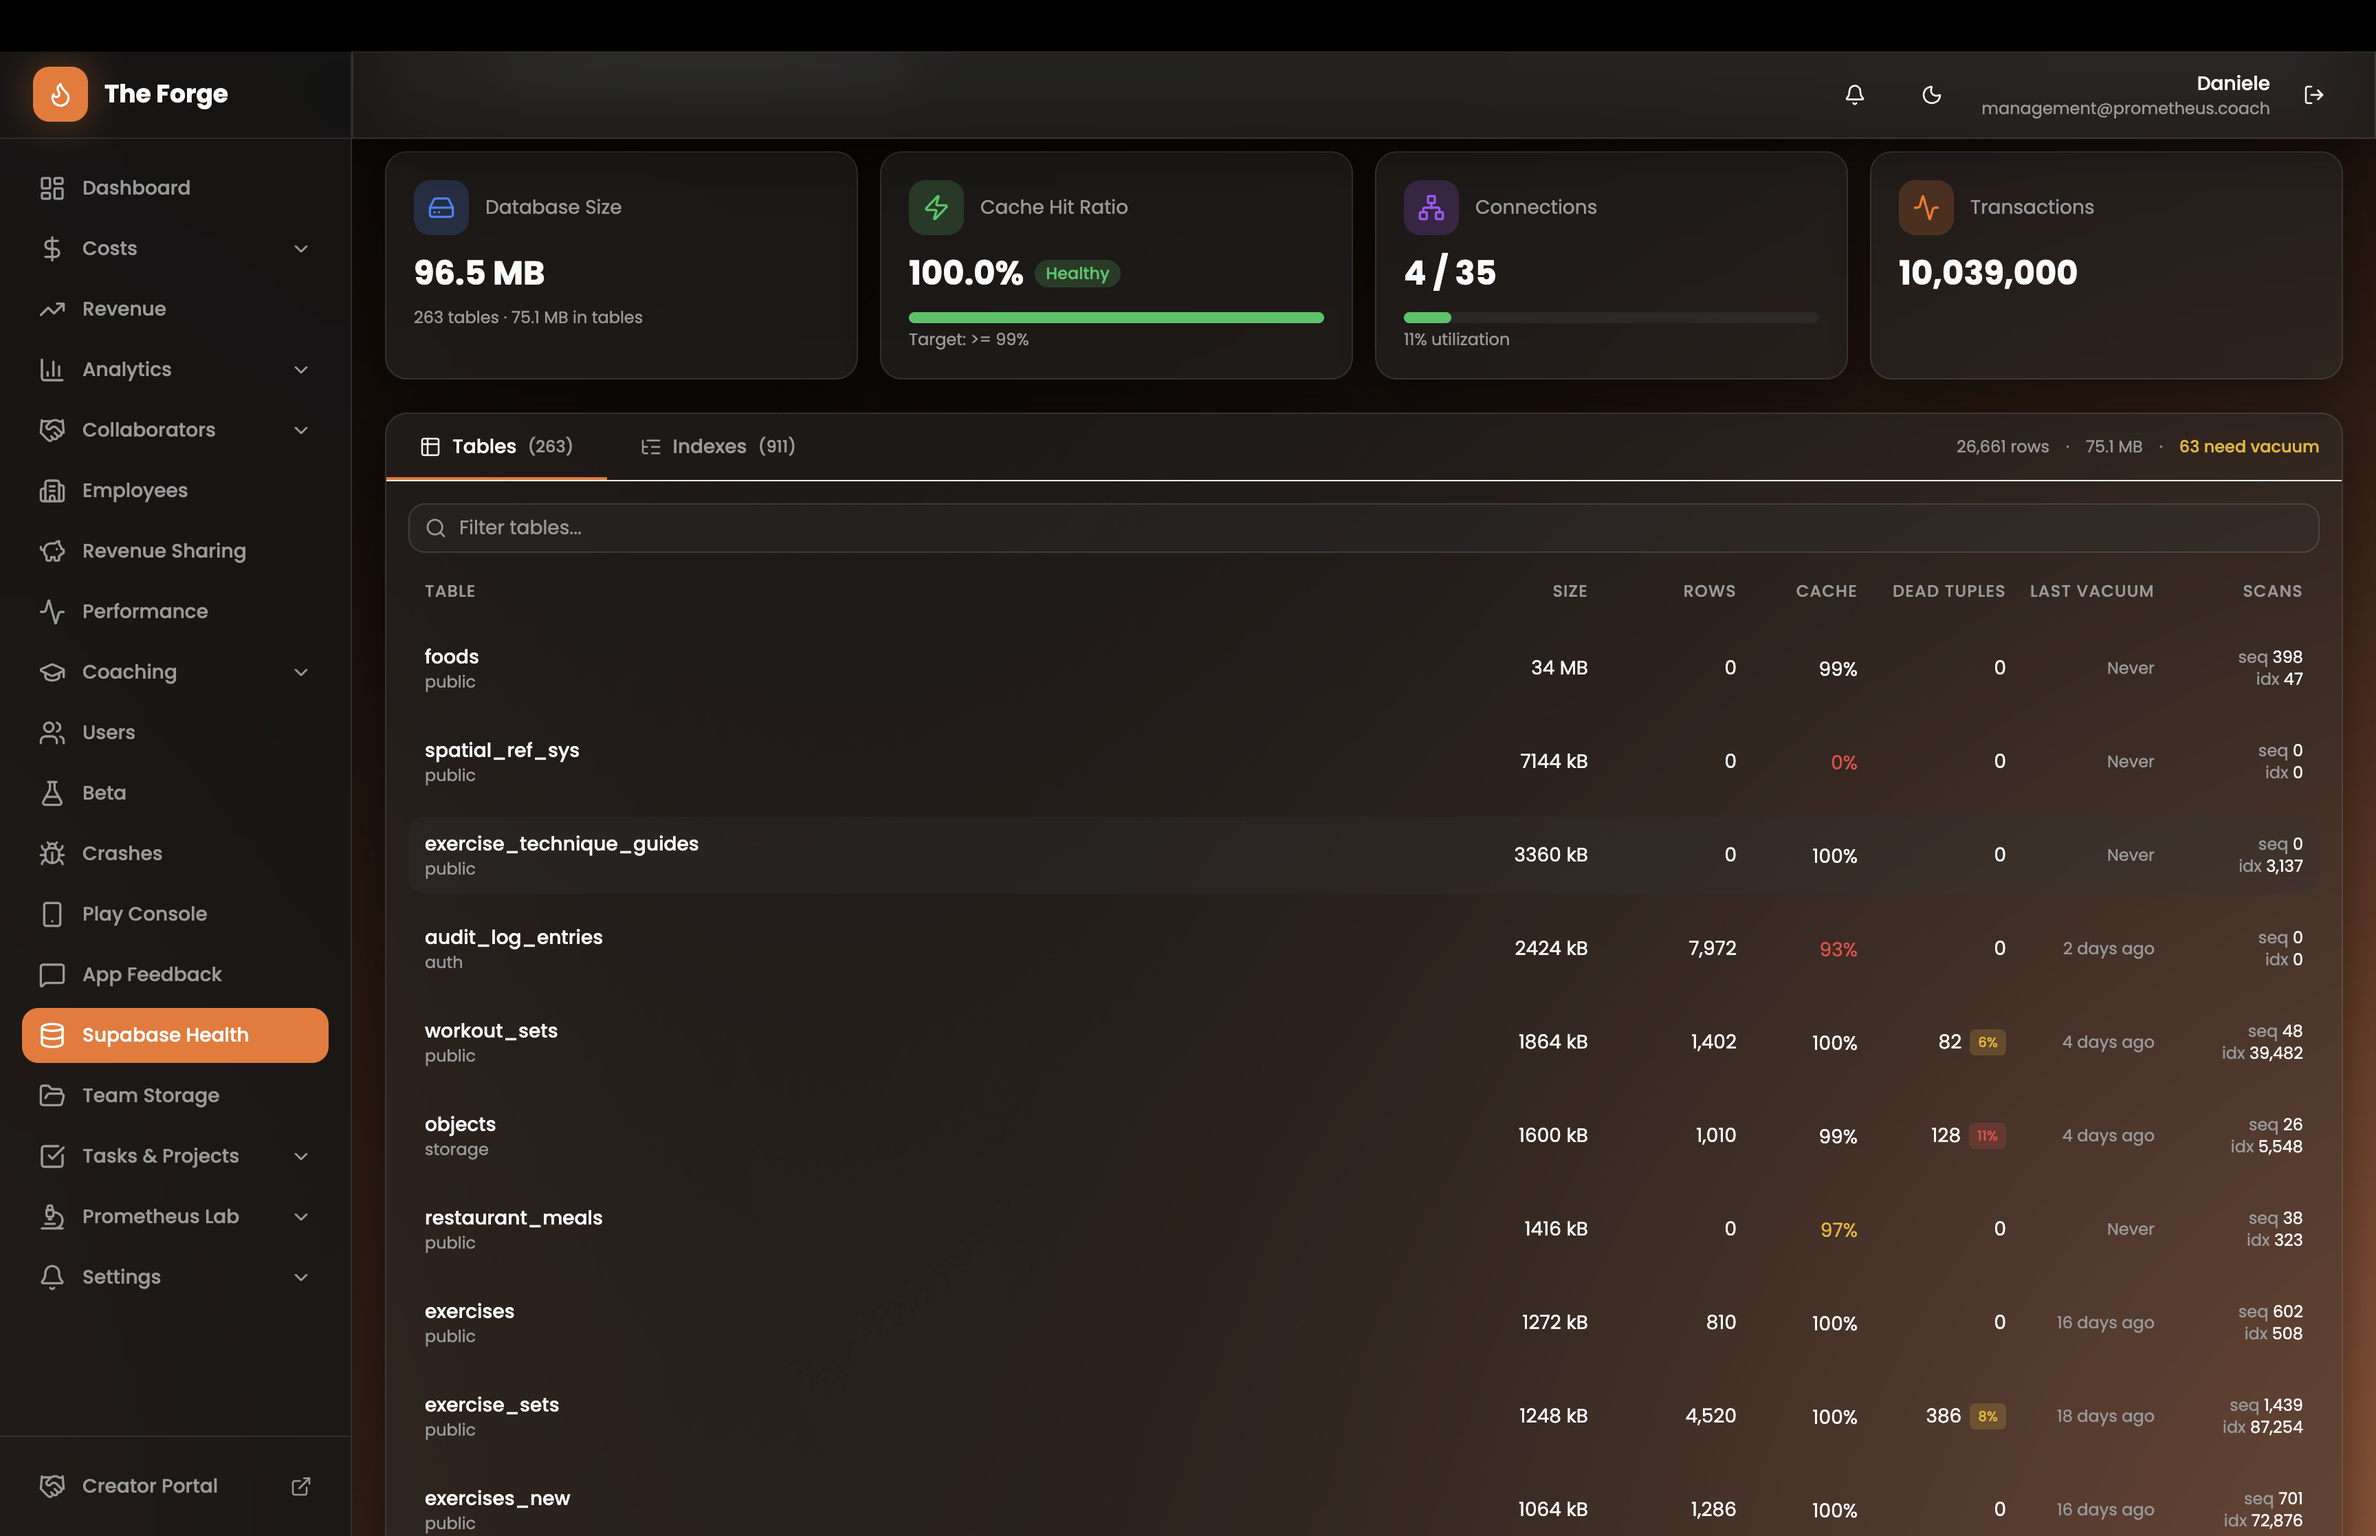
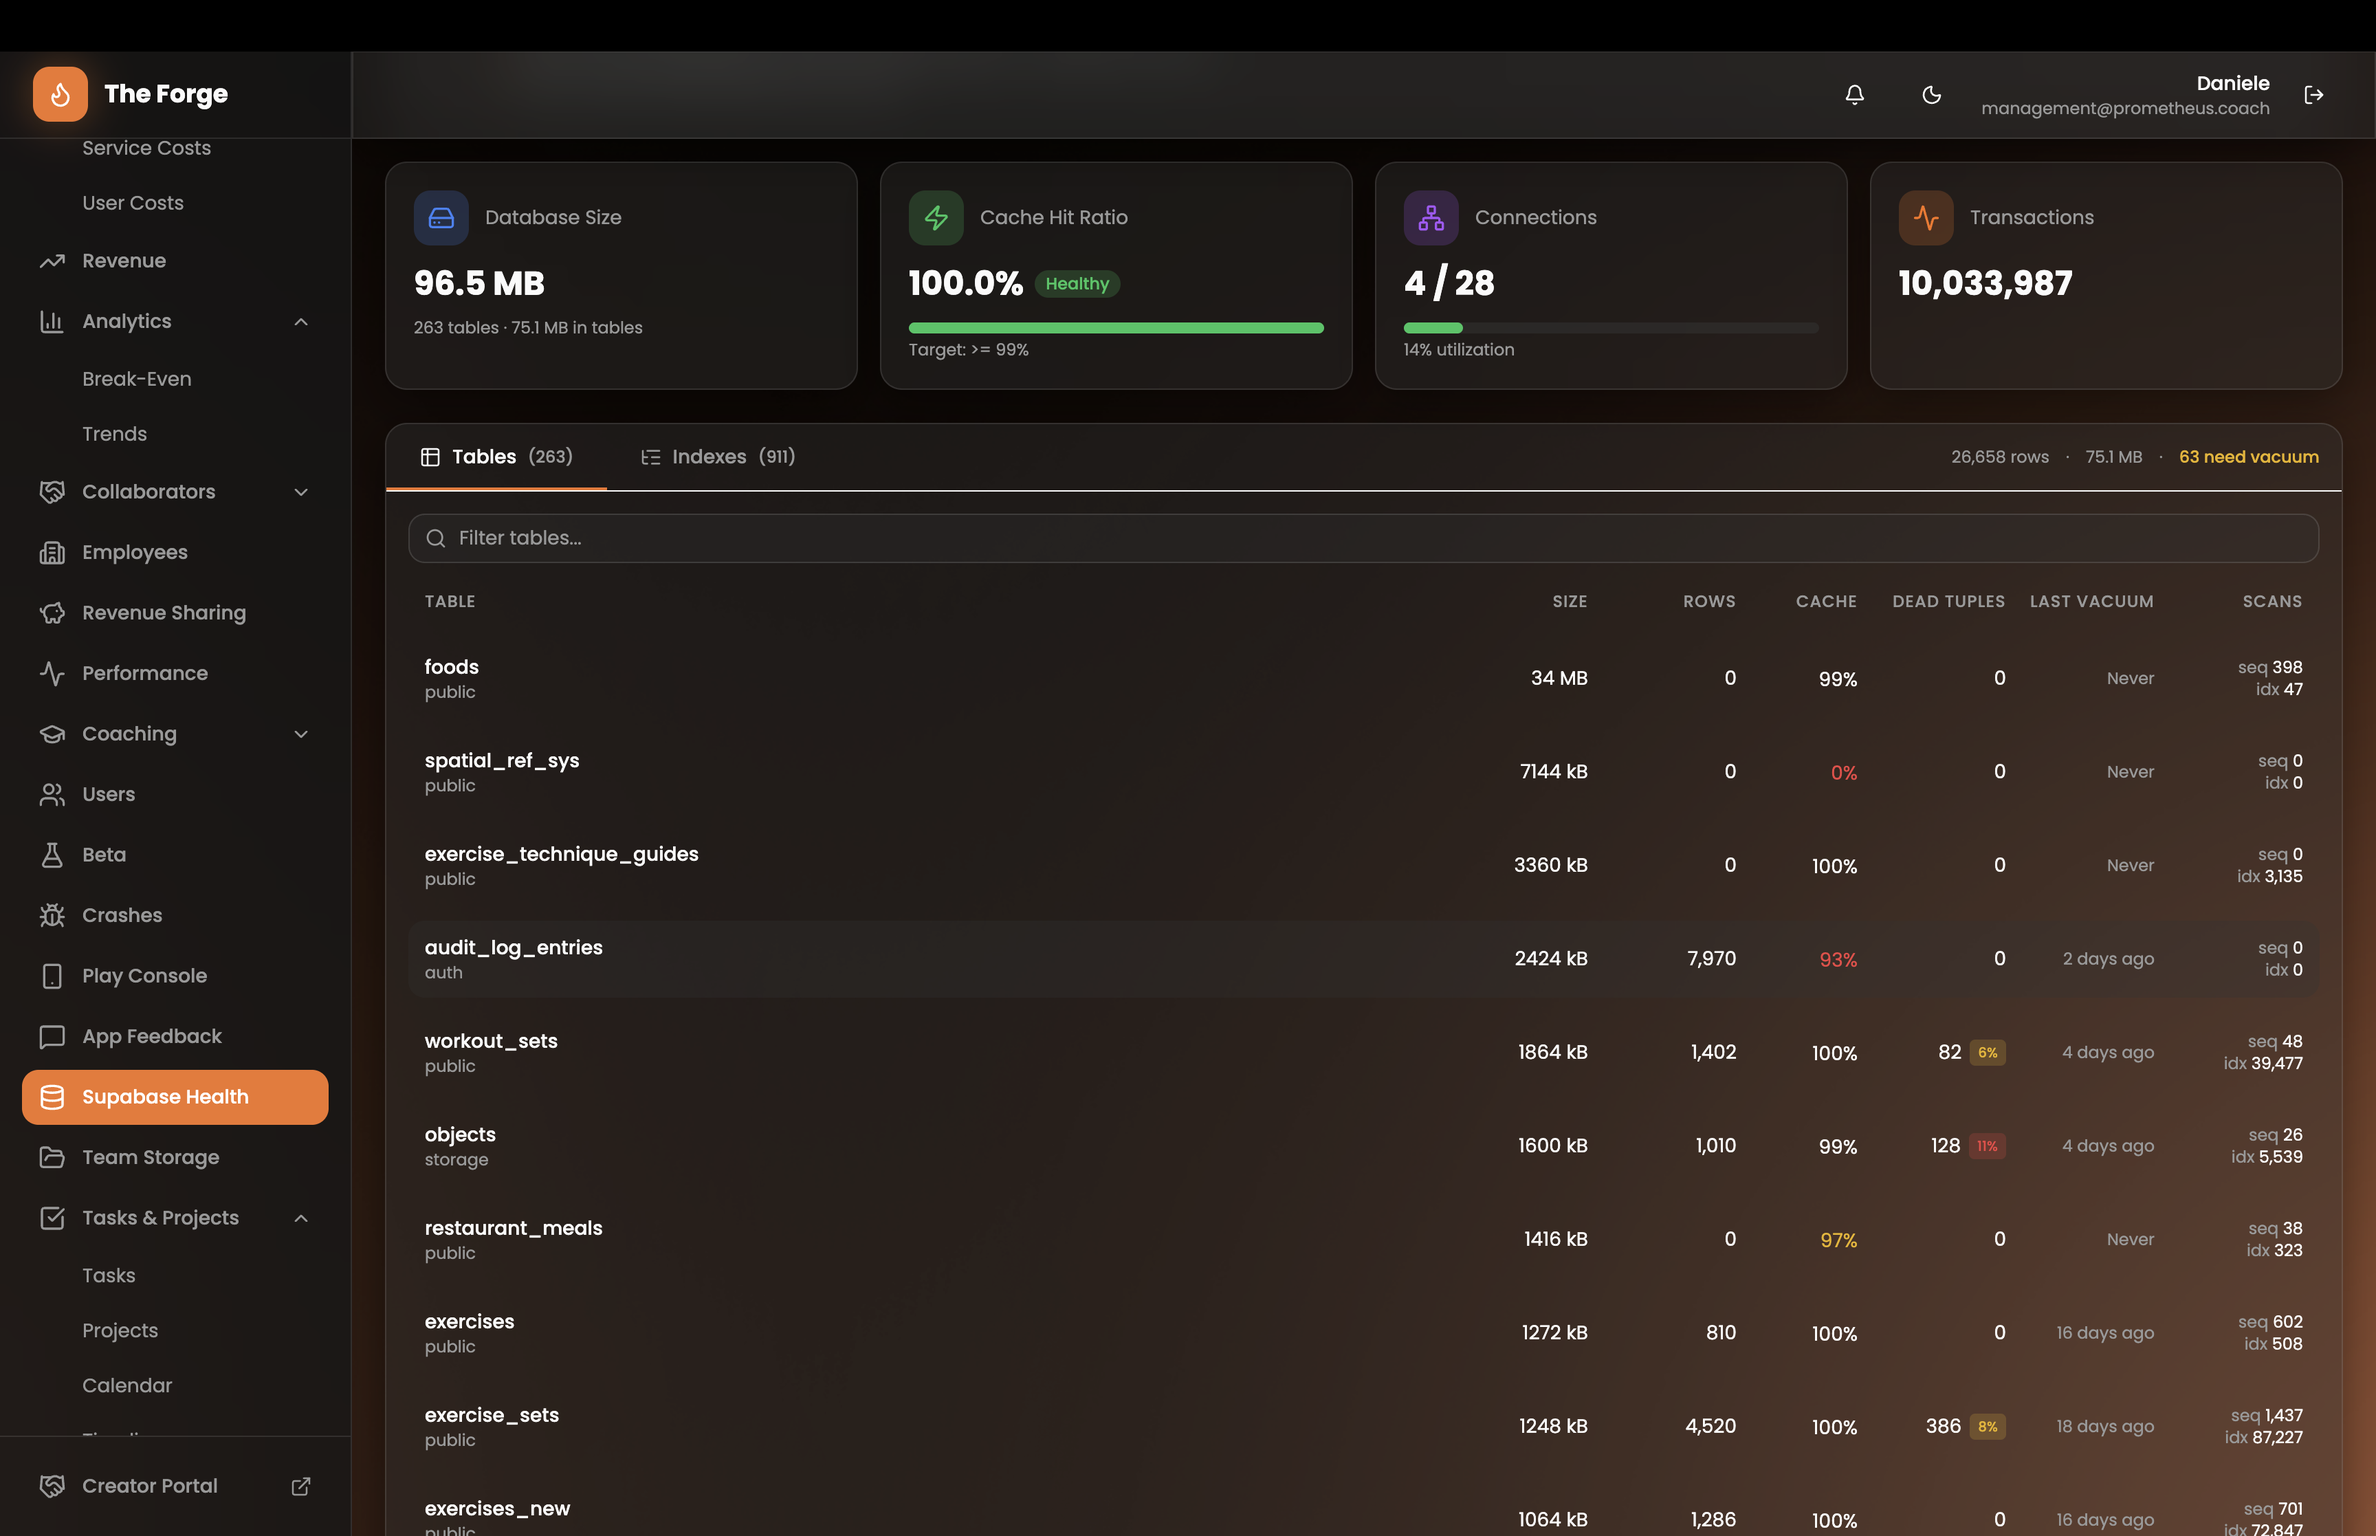
Update Forge screenshots and GrowthPitch adjustments

diff --git a/src/pages/GrowthPitch.jsx b/src/pages/GrowthPitch.jsx
@@ -938,16 +938,17 @@ function CommandCenterSection() {
         </p>
       </div>
 
-      {/* Forge Screenshots */}
-      <div className="grid lg:grid-cols-3 gap-4 mb-12">
+      {/* Forge Screenshots — 4-up */}
+      <div className="grid grid-cols-2 lg:grid-cols-4 gap-3 mb-12">
         {[
-          { title: 'Dashboard & Cost Analytics', src: '/images/screenshots/forge-dashboard.png' },
-          { title: 'Play Console & Reviews', src: '/images/screenshots/forge-play-console.png' },
-          { title: 'Supabase Health Monitor', src: '/images/screenshots/forge-supabase-health.png' },
+          { title: 'Cost Analytics', src: '/images/screenshots/forge-cost-analytics.png' },
+          { title: 'Supabase Health', src: '/images/screenshots/forge-supabase-health.png' },
+          { title: 'Creators CRM', src: '/images/screenshots/forge-creators.png' },
+          { title: 'Projects', src: '/images/screenshots/forge-projects.png' },
         ].map((s, i) => (
-          <div key={i} className="bg-white/[0.04] border border-white/[0.08] rounded-xl overflow-hidden hover:border-accent/20 transition-all duration-300">
+          <div key={i} className="bg-white/[0.04] border border-white/[0.08] rounded-xl overflow-hidden">
             <img src={s.src} alt={s.title} className="w-full h-auto" />
-            <p className="text-center text-[10px] text-[#999] font-medium py-2 uppercase tracking-wider">{s.title}</p>
+            <p className="text-center text-[10px] text-[#666] font-medium py-1.5 uppercase tracking-wider">{s.title}</p>
           </div>
         ))}
       </div>
